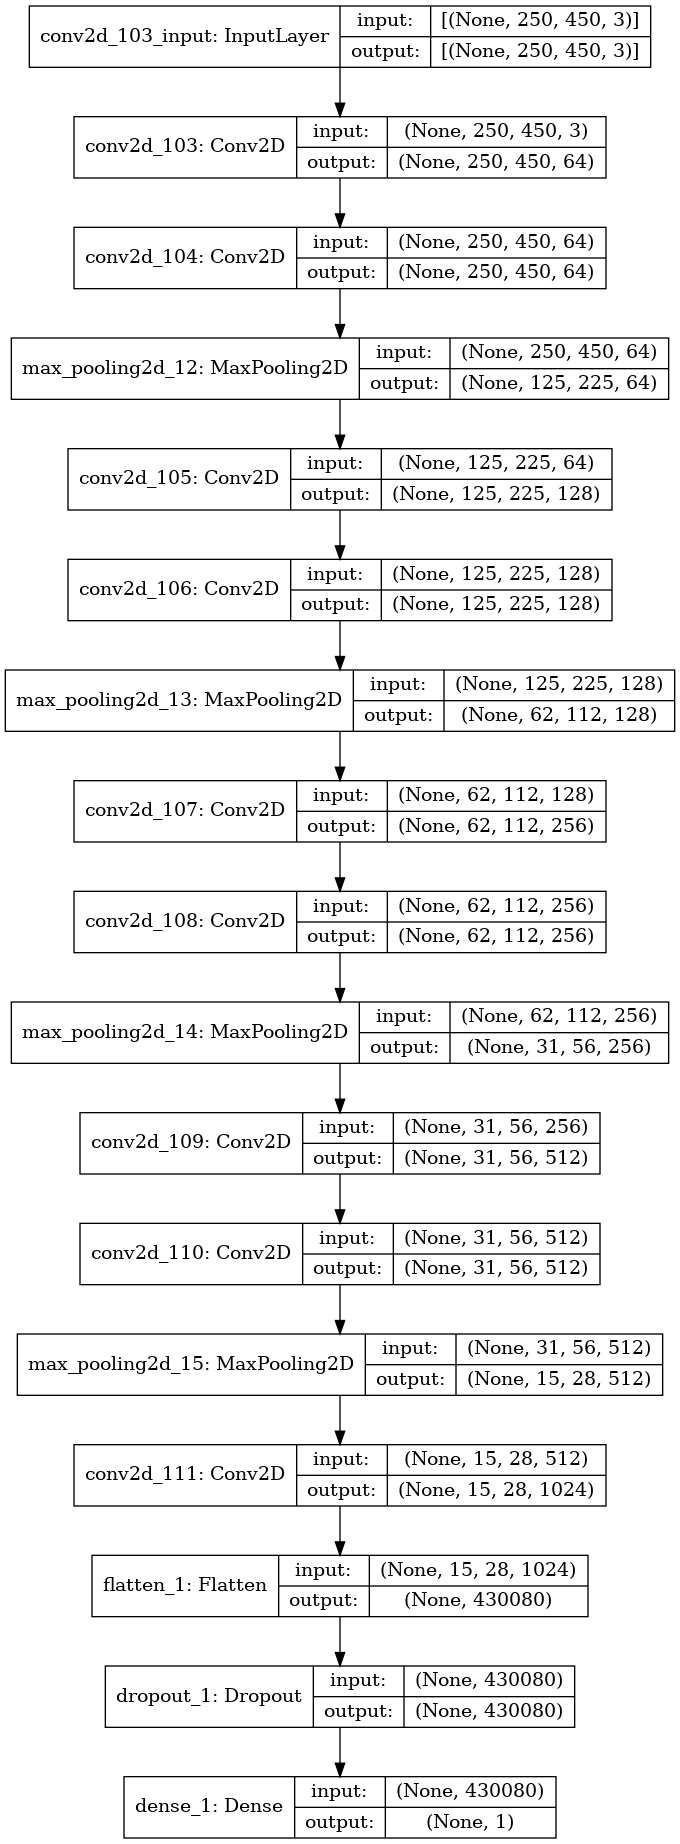
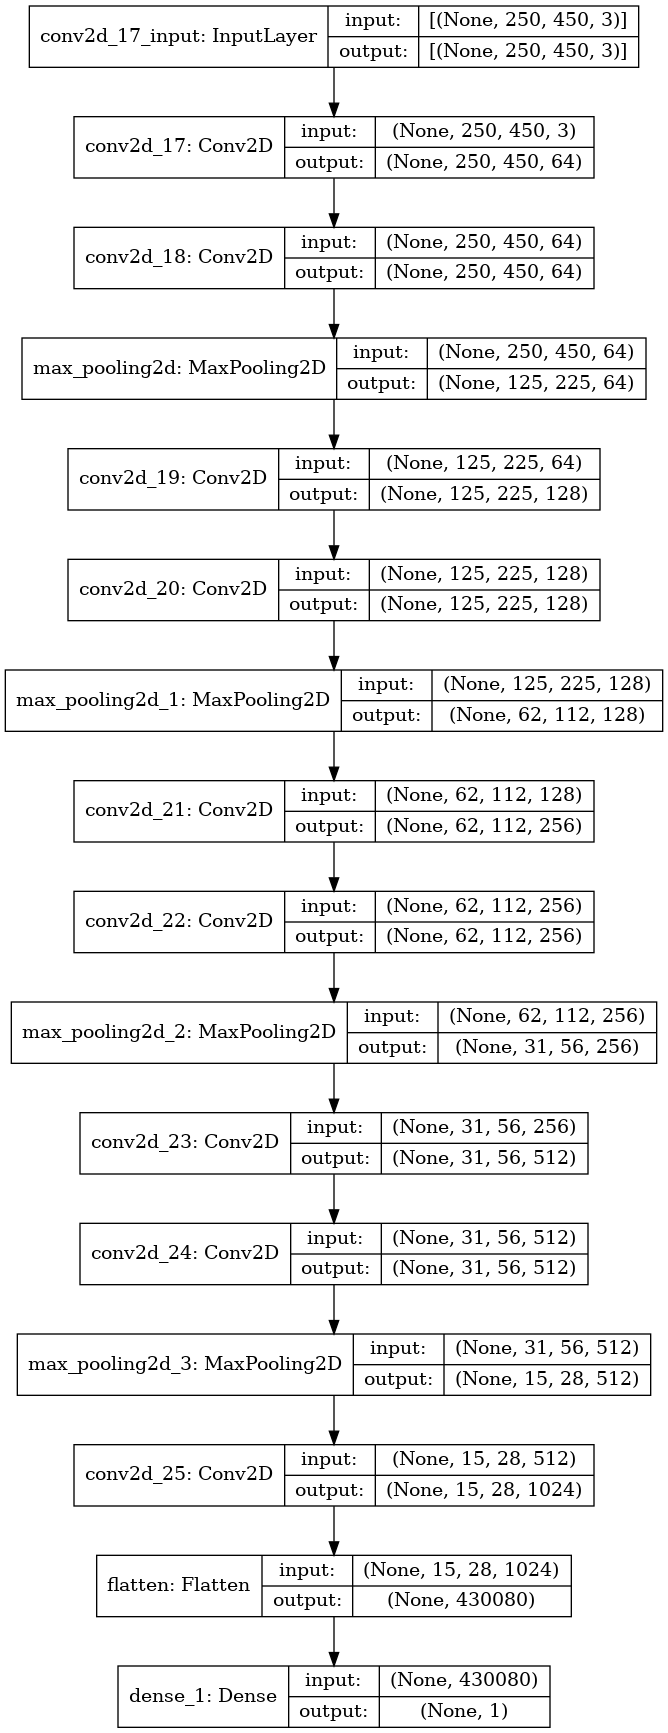
Adicionando gan

Changed region(s): [[0.0, 0.0, 1.0, 1.0]]

diff --git a/unet/unet.py b/unet/unet.py
@@ -1,65 +1,100 @@
-from tensorflow.python.keras import Input, Model
-from tensorflow.python.keras.layers import Conv2D, MaxPooling2D, UpSampling2D, concatenate
+import tensorflow
+from tensorflow.keras import Sequential, Model, Input
+from tensorflow.keras.layers import Conv2D, MaxPooling2D, UpSampling2D, Concatenate, Dense, BatchNormalization, \
+    LeakyReLU, Reshape, Flatten
+from tensorflow.keras.layers.experimental.preprocessing import Resizing
+from tensorflow.keras.utils import plot_model
 from tensorflow.python.keras.optimizer_v2.adam import Adam
-from tensorflow.python.keras.utils.vis_utils import plot_model
-import pydot
 
 
-def unet(pretrained_weights=None, input_size=(256, 256, 1)):
-    inputs = Input(input_size)
-    conv1 = Conv2D(64, 3, activation='relu', padding='same', kernel_initializer='he_normal')(inputs)
-    conv1 = Conv2D(64, 3, activation='relu', padding='same', kernel_initializer='he_normal')(conv1)
-    pool1 = MaxPooling2D(pool_size=(2, 2))(conv1)
-    conv2 = Conv2D(128, 3, activation='relu', padding='same', kernel_initializer='he_normal')(pool1)
-    conv2 = Conv2D(128, 3, activation='relu', padding='same', kernel_initializer='he_normal')(conv2)
-    pool2 = MaxPooling2D(pool_size=(2, 2))(conv2)
-    conv3 = Conv2D(256, 3, activation='relu', padding='same', kernel_initializer='he_normal')(pool2)
-    conv3 = Conv2D(256, 3, activation='relu', padding='same', kernel_initializer='he_normal')(conv3)
-    pool3 = MaxPooling2D(pool_size=(2, 2))(conv3)
-    conv4 = Conv2D(512, 3, activation='relu', padding='same', kernel_initializer='he_normal')(pool3)
-    conv4 = Conv2D(512, 3, activation='relu', padding='same', kernel_initializer='he_normal')(conv4)
-    pool4 = MaxPooling2D(pool_size=(2, 2))(conv4)
+def get_discriminator(input_size=(250, 450, 3)):
+    model = Sequential()
 
-    conv5 = Conv2D(1024, 3, activation='relu', padding='same', kernel_initializer='he_normal')(pool4)
-    conv5 = Conv2D(1024, 3, activation='relu', padding='same', kernel_initializer='he_normal')(conv5)
+    model.add(Conv2D(64, 3, activation='relu', padding='same', kernel_initializer='he_normal', input_shape=input_size))
+    model.add(Conv2D(64, 3, activation='relu', padding='same', kernel_initializer='he_normal'))
+    model.add(MaxPooling2D(pool_size=(2, 2)))
+
+    model.add(Conv2D(128, 3, activation='relu', padding='same', kernel_initializer='he_normal'))
+    model.add(Conv2D(128, 3, activation='relu', padding='same', kernel_initializer='he_normal'))
+    model.add(MaxPooling2D(pool_size=(2, 2)))
+
+    model.add(Conv2D(256, 3, activation='relu', padding='same', kernel_initializer='he_normal'))
+    model.add(Conv2D(256, 3, activation='relu', padding='same', kernel_initializer='he_normal'))
+    model.add(MaxPooling2D(pool_size=(2, 2)))
+
+    model.add(Conv2D(512, 3, activation='relu', padding='same', kernel_initializer='he_normal'))
+    model.add(Conv2D(512, 3, activation='relu', padding='same', kernel_initializer='he_normal'))
+    model.add(MaxPooling2D(pool_size=(2, 2)))
+
+    model.add(Conv2D(1024, 3, activation='relu', padding='same', kernel_initializer='he_normal'))
+    model.add(Flatten())
+    model.add(Dense(1))
+    return model
+
+
+def get_generator(input_dim=100):
+    gen_input = Input(input_dim)
+    init = LeakyReLU()(BatchNormalization()(Dense(16 * 29 * 1024, input_dim=input_dim, use_bias=False)(gen_input)))
+    init = Reshape((16, 29, 1024))(init)
+    conv5 = Conv2D(1024, 3, activation='relu', padding='same', kernel_initializer='he_normal')(init)
 
     up6 = Conv2D(512, 2, activation='relu', padding='same', kernel_initializer='he_normal')(
         UpSampling2D(size=(2, 2))(conv5))
-    merge6 = concatenate([up6], axis=3)
+    merge6 = Concatenate(axis=3)([up6])
     conv6 = Conv2D(512, 3, activation='relu', padding='same', kernel_initializer='he_normal')(merge6)
     conv6 = Conv2D(512, 3, activation='relu', padding='same', kernel_initializer='he_normal')(conv6)
 
-    up7 = Conv2D(256, 2, activation='relu', padding='same', kernel_initializer='he_normal')(
-        UpSampling2D(size=(2, 2))(conv6))
-    merge7 = concatenate([conv3, up7], axis=3)
+    up1 = UpSampling2D(size=(2, 2))(conv6)
+    up7 = Conv2D(256, 2, activation='relu', padding='same', kernel_initializer='he_normal')(up1)
+    conv3 = Conv2D(256, 3, activation='relu', padding='same', kernel_initializer='he_normal')(up1)
+    merge7 = Concatenate(axis=3)([conv3, up7])
     conv7 = Conv2D(256, 3, activation='relu', padding='same', kernel_initializer='he_normal')(merge7)
     conv7 = Conv2D(256, 3, activation='relu', padding='same', kernel_initializer='he_normal')(conv7)
 
-    up8 = Conv2D(128, 2, activation='relu', padding='same', kernel_initializer='he_normal')(
-        UpSampling2D(size=(2, 2))(conv7))
-    merge8 = concatenate([conv2, up8], axis=3)
+    up2 = UpSampling2D(size=(2, 2))(conv7)
+    up8 = Conv2D(128, 2, activation='relu', padding='same', kernel_initializer='he_normal')(up2)
+    conv2 = Conv2D(128, 3, activation='relu', padding='same', kernel_initializer='he_normal')(up2)
+    merge8 = Concatenate(axis=3)([conv2, up8])
     conv8 = Conv2D(128, 3, activation='relu', padding='same', kernel_initializer='he_normal')(merge8)
     conv8 = Conv2D(128, 3, activation='relu', padding='same', kernel_initializer='he_normal')(conv8)
 
-    up9 = Conv2D(64, 2, activation='relu', padding='same', kernel_initializer='he_normal')(
-        UpSampling2D(size=(2, 2))(conv8))
-    merge9 = concatenate([conv1, up9], axis=3)
+    up3 = UpSampling2D(size=(2, 2))(conv8)
+    up9 = Conv2D(64, 2, activation='relu', padding='same', kernel_initializer='he_normal')(up3)
+    conv1 = Conv2D(64, 3, activation='relu', padding='same', kernel_initializer='he_normal')(up3)
+    merge9 = Concatenate(axis=3)([conv1, up9])
     conv9 = Conv2D(64, 3, activation='relu', padding='same', kernel_initializer='he_normal')(merge9)
     conv9 = Conv2D(64, 3, activation='relu', padding='same', kernel_initializer='he_normal')(conv9)
-    conv9 = Conv2D(2, 3, activation='relu', padding='same', kernel_initializer='he_normal')(conv9)
-
-    model = Model(inputs=[inputs], outputs=[conv9])
+    conv9 = Conv2D(3, 3, activation='relu', padding='same', kernel_initializer='he_normal')(conv9)
+    output = Resizing(height=250, width=450)(conv9)
+    model = Model(inputs=[gen_input], outputs=[output])
 
     model.compile(optimizer=Adam(learning_rate=3e-4), loss='binary_crossentropy', metrics=['accuracy'])
-
-    if pretrained_weights:
-        model.load_weights(pretrained_weights)
 
     return model
 
 
-model = unet()
+def get_gan(disc, gen):
+    disc.trainable = False
+    model = Sequential(name="generator")
+    model.add(gen)
+    model.add(disc)
+    opt = Adam(learning_rate=2e-4, beta_1=0.05)
+    model.compile(loss='binary_crossentropy', optimizer=opt)
+    return model
 
-model.summary()
 
-plot_model(model, "my_first_model.png", show_shapes=True)
+generator = get_generator()
+generator.summary()
+
+disc = get_discriminator()
+disc.summary()
+
+gan = get_gan(disc, generator)
+gan.summary()
+
+plot_model(disc, "discriminator.png", show_shapes=True)
+plot_model(generator, "generator.png", show_shapes=True)
+plot_model(gan, "gan.png", show_shapes=True)
+
+print(f"Tensorflow: {tensorflow.__version__}")
+print(f"Keras: {tensorflow.keras.__version__}")
